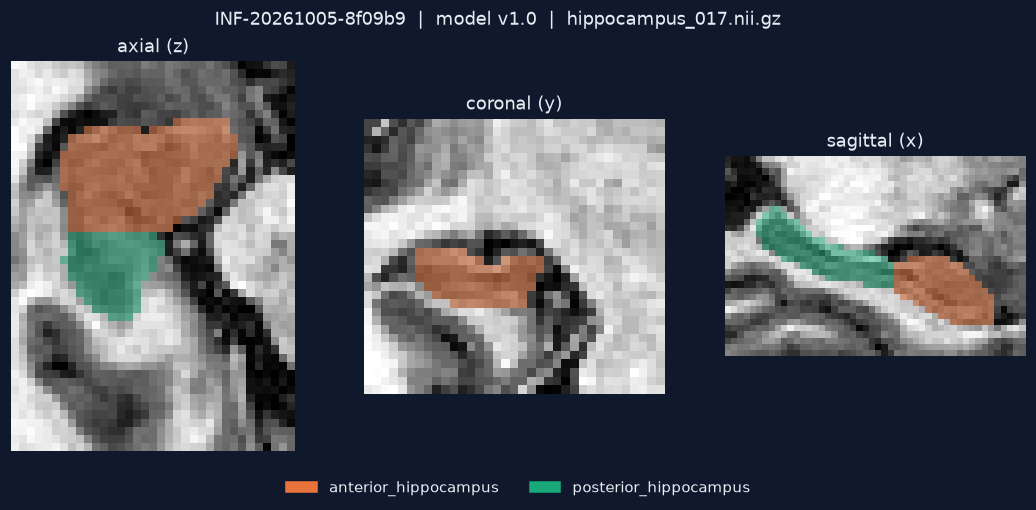
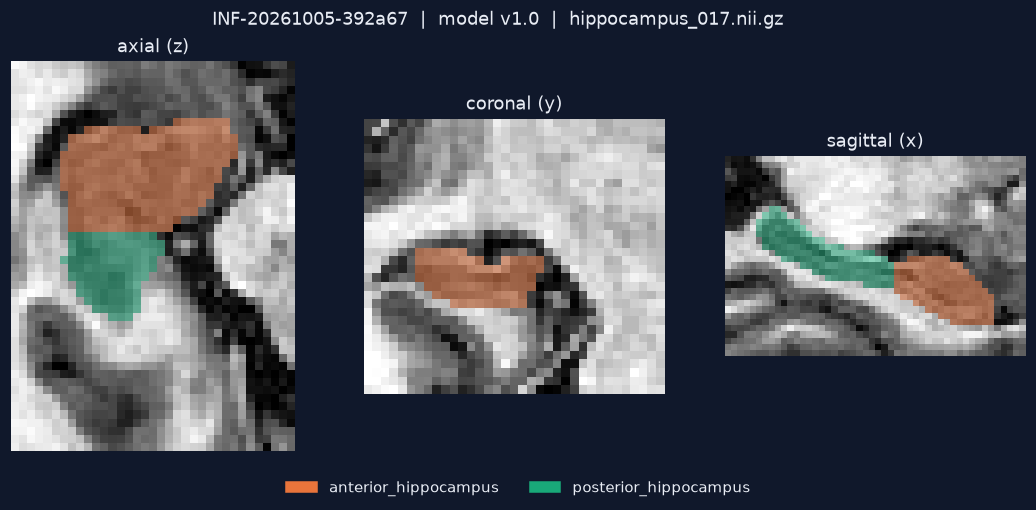
README: note that a full rerun reproduced the identical model; refresh images

Changed region(s): [[0.1853, 0.0, 0.7722, 0.0588]]

diff --git a/README.md b/README.md
@@ -53,8 +53,9 @@ The model has 350,827 parameters.
 - For comparison, nnU-Net (the strong standard baseline) reports about 0.89-0.90 on
   this task. Its test set is different, so the numbers are not directly comparable.
 
-Training is reproducible. I restarted an interrupted run and the first epoch gave
-exactly the same loss (1.8197) and validation Dice (0.3964).
+Training is reproducible. I deleted all results and ran the whole pipeline again from
+scratch: the new model file had exactly the same SHA-256 hash as the first one, and so
+did its predictions.
 
 ![slices](docs/images/slices.png)
 

diff --git a/docs/regulated_ml_notes.md b/docs/regulated_ml_notes.md
@@ -1,7 +1,7 @@
 # Notes on regulated medical software
 
 First, to be clear: this project is not compliant with any standard, and I don't claim it
-is. Compliance needs a lot more than code: a quality system, written processes, risk
+is. Compliance needs: a quality system, written processes, risk
 management, clinical validation and documentation.
 
 What code *can* do is make that work much easier. If a system was built without
